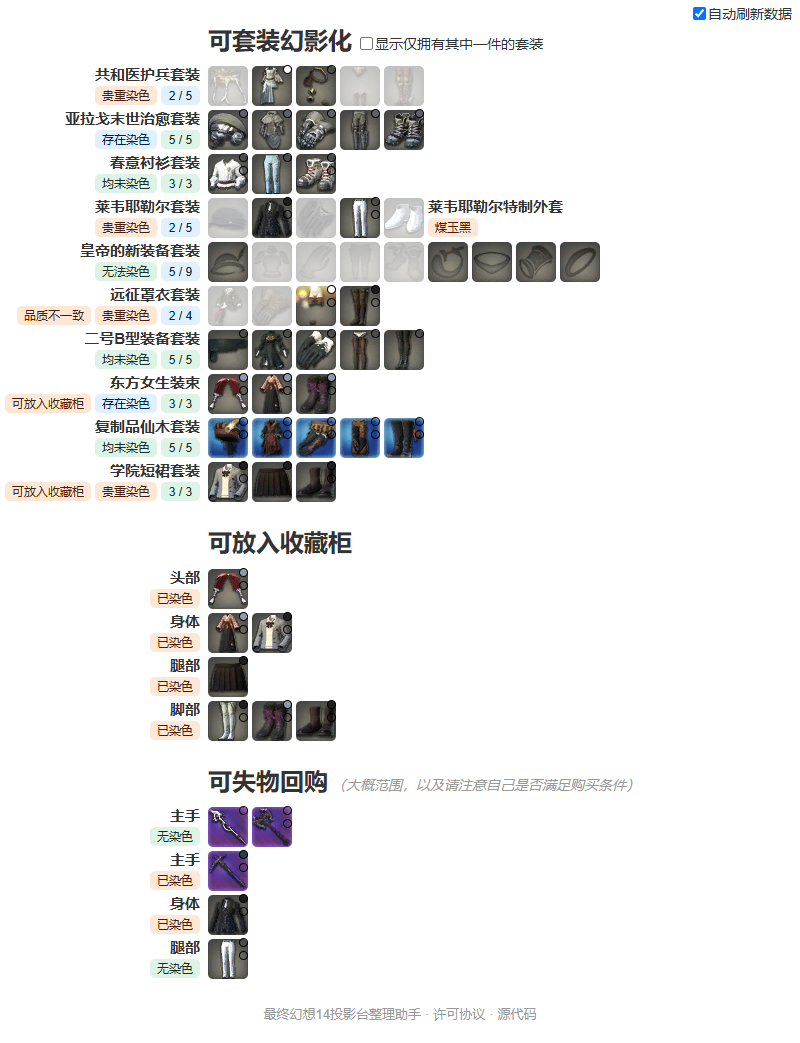
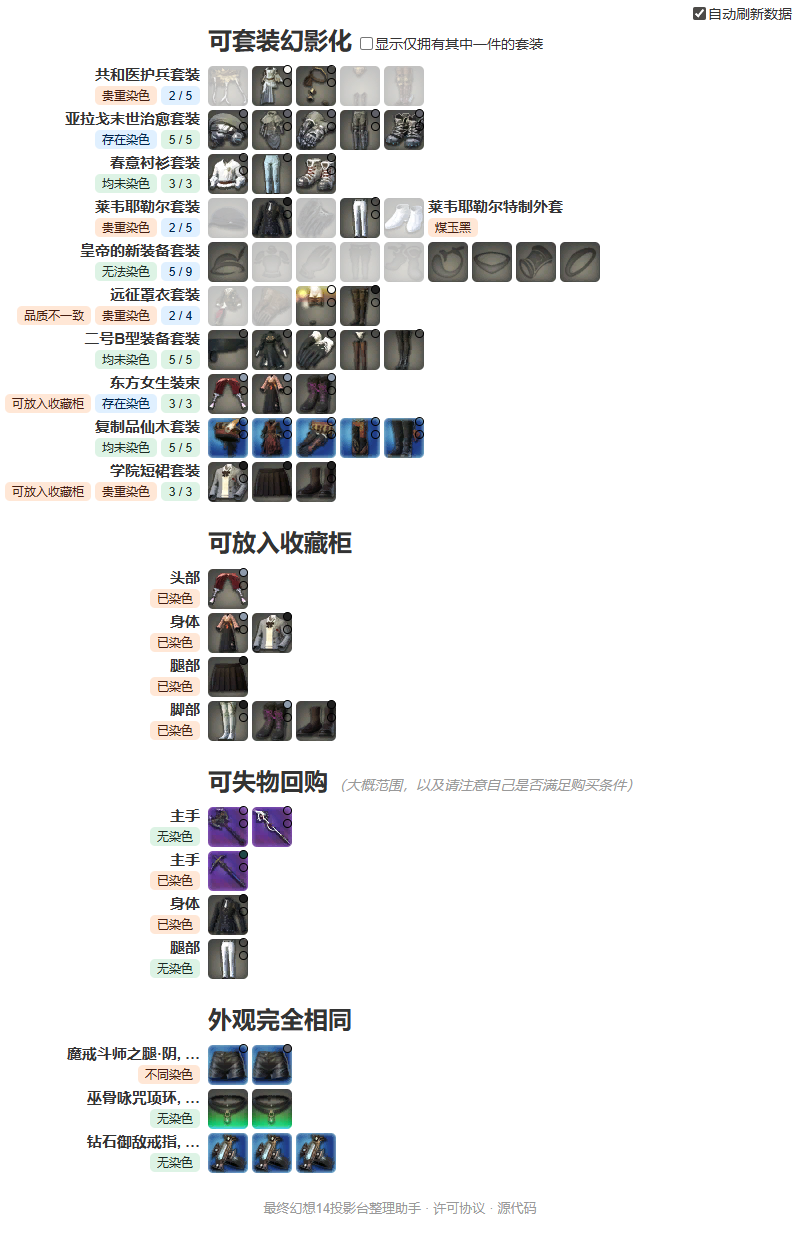
support analyze gears with identical appearance

Changed region(s): [[0.0, 0.0, 0.7812, 0.9818], [0.8438, 0.0, 1.0, 0.0307]]

diff --git a/web/src/store.ts b/web/src/store.ts
@@ -28,6 +28,13 @@ interface Categorized {
   }[],
 }
 
+interface Identical {
+  groupId: number,
+  itemId: number
+  name: string,
+  dyeCount: number,
+}
+
 interface Dye {
   id: number,
   name: string,
@@ -57,11 +64,13 @@ async function fetchJson(url: string) {
 let outfits: Outfit[];
 let cabinets: Categorized[];
 let reclaims: Categorized[];
+let identicals: Identical[];
 let dyeTypes: Dye[];
 let pending = Promise.all([
   fetchJson('./data/outfits').then(v => { outfits = v; }),
   fetchJson('./data/cabinets').then(v => { cabinets = v; }),
   fetchJson('./data/reclaims').then(v => { reclaims = v; }),
+  fetchJson('./data/identicals').then(v => { identicals = v }),
   fetchJson('./data/dyes').then(v => {
     dyeTypes = v;
     dyeTypes[101].expensive = true;  // 无瑕白
@@ -202,5 +211,46 @@ export class Store {
         items: items.filter(x => x.dyed),
       }]
     }).flat().filter(group => group.items.length > 0);
+  }
+
+  get identicalAdvices() {
+    const groups = new Map<number, [Identical, DresserItem][]>();
+    for (const identical of identicals) {
+        const dresserItem = this.dresserItems.get(identical.itemId);
+        if (dresserItem === undefined) continue;
+        let group = groups.get(identical.groupId);
+        if (group === undefined) {
+          group = [];
+          groups.set(identical.groupId, group);
+        }
+        group.push([identical, dresserItem]);
+    }
+    return Array.from(groups.values())
+      .filter(group => group.length > 1)
+      .map(group => {
+        let dyed = false;
+        const dyeSet = new Set<number>();
+        var items = group.map(([identical, dresserItem]) => {
+          let dyeState = 1;
+          const dyes: Dye[] = [];
+          for (let i = 0; i < identical.dyeCount; i++) {
+            var dye = dyeTypes[dresserItem.dyes[i]];
+            dyed ||= dye.id > 0;
+            dyeState = (dyeState << 8) + dye.id;
+            dyes.push(dye);
+          }
+          dyeSet.add(dyeState);
+          return {
+            ...dresserItem,
+            name: identical.name,
+            dyes,
+          };
+        });
+        return {
+          items,
+          dyed,
+          dyeDiff: dyeSet.size > 1,
+        };
+      });
   }
 }

diff --git a/web/src/views/IdenticalEntry.tsx b/web/src/views/IdenticalEntry.tsx
@@ -1,0 +1,50 @@
+import { createSignal } from 'solid-js';
+import type { Store } from '../store';
+
+export function IdenticalEntry(advice: Store['identicalAdvices'][number]) {
+  const [ hoverItem, setHoverItem ] = createSignal<typeof advice['items'][number]>();
+  const copy = (name: string) => navigator.clipboard.writeText(name);
+  return (
+    <div class="entry">
+      <div class="entry--title">
+        <div class="entry--name">{advice.items[0].name}, …</div>
+        <div>
+          {advice.dyed
+            ? advice.dyeDiff
+              ? <span class="badge badge--orange">不同染色</span>
+              : <span class="badge badge--green">相同染色</span>
+            : <span class="badge badge--green">无染色</span>}
+        </div>
+      </div>
+      <div class="entry--items" onMouseLeave={[setHoverItem, undefined]}>
+        {advice.items.map(item => (
+          <span
+            class="entry--item-icon"
+            style={{
+              'background-image': `url('./icon/${item.id}${item.hq ? 'hq' : ''}')`,
+            }}
+            onMouseEnter={[setHoverItem, item]}
+            onClick={[copy, item.name]}
+          >
+            {item.dyes.map(dye => (
+              <span
+                class="entry--item-dye"
+                style={dye.id > 0 ? `background: #${dye.color}` : undefined}
+              />
+            ))}
+          </span>
+        ))}
+      </div>
+      {hoverItem() !== undefined && (
+        <div class="entry--item-info">
+          <div class="entry--name">{hoverItem()!.name}{hoverItem()!.hq ? 'HQ' : ''}</div>
+          <div>
+            {hoverItem()!.dyes.map(dye => dye.id != 0 && (
+              <span class={`badge badge--${dye.expensive ? 'orange' : 'blue'}`}>{dye.name}</span>
+            ))}
+          </div>
+        </div>
+      )}
+    </div>
+  );
+}

diff --git a/web/src/views/App.tsx b/web/src/views/App.tsx
@@ -5,6 +5,7 @@ import { StoreContext } from './useStore';
 import { Refresh } from './Refresh';
 import { OutfitEntry } from './OutfitEntry';
 import { CategoryEntry } from './CategoryEntry';
+import { IdenticalEntry } from './IdenticalEntry';
 import { About } from './About';
 
 export function App() {
@@ -35,6 +36,8 @@ export function App() {
             {indexRender(() => store.cabinetAdvices, advice => <CategoryEntry {...advice()} />)}
             <h2 tabIndex="0">可失物回购<i>（大概范围，以及请注意自己是否满足购买条件）</i></h2>
             {indexRender(() => store.reclaimAdvices, advice => <CategoryEntry {...advice()} />)}
+            <h2 tabIndex="0">外观完全相同</h2>
+            {indexRender(() => store.identicalAdvices, advice => <IdenticalEntry {...advice()} />)}
           </Show>
           <About />
         </Show>

diff --git a/client/StaticData.cs b/client/StaticData.cs
@@ -72,6 +72,7 @@ namespace ffxiv_dresser_analyze_client
             AddJson("/data/outfits", GenerateOutfits());
             AddJson("/data/cabinets", GenerateCabinets());
             AddJson("/data/reclaims", GenerateReclaims());
+            AddJson("/data/identicals", GenerateIdenticals());
             AddJson("/data/dyes", GenerateDyes());
         }
 
@@ -92,7 +93,7 @@ namespace ffxiv_dresser_analyze_client
 
         private static ulong GetSortKey(Item eItem)
         {
-            return (((10000 - eItem.LevelItem.RowId) * 10000u + eItem.Unknown4) * 100000u + eItem.RowId);
+            return (((10000ul - eItem.LevelItem.RowId) * 100000u + eItem.Unknown4) * 100000u + eItem.RowId);
         }
 
         private object GenerateOutfits()
@@ -178,6 +179,28 @@ namespace ffxiv_dresser_analyze_client
                 }).ToList();
             ret.Sort((a, b) => a.category - b.category);
             return ret;
+        }
+
+        private object GenerateIdenticals()
+        {
+            var identicals = lumina.GetExcelSheet<Item>()!
+                .Where(eItem => eItem.IsGlamorous)
+                .GroupBy(eItem => (eItem.EquipSlotCategory.RowId, eItem.ModelMain))
+                .Where(group => group.Count() > 1)
+                .SelectMany(group =>
+                {
+                    var groupId = group.FirstOrDefault().RowId;
+                    return group.Select(eItem => (eItem, groupId, sortKey: (eItem.EquipSlotCategory.RowId, GetSortKey(eItem))));
+                })
+                .ToList();
+            identicals.Sort((a, b) => a.sortKey.CompareTo(b.sortKey));
+            return identicals.Select(x =>
+            {
+                var itemId = x.eItem.RowId;
+                var name = x.eItem.Name.ToString();
+                var dyeCount = x.eItem.DyeCount;
+                return new { x.groupId, itemId, name, dyeCount };
+            });
         }
 
         private object GenerateDyes()

diff --git a/README.md b/README.md
@@ -1,6 +1,6 @@
 # 最终幻想14投影台整理助手
 
-一个汇总投影台内可套装幻影化、放入收藏柜、失物回购装备及其染色情况的小工具，帮助你省去一点翻来翻来翻去翻去的麻烦。
+一个汇总投影台内可套装幻影化、可放入收藏柜、可失物回购、外观完全相同装备及其染色情况的小工具，帮助你省去一点翻来翻来翻去翻去的麻烦。
 
 <details><summary>效果示例</summary>
 
